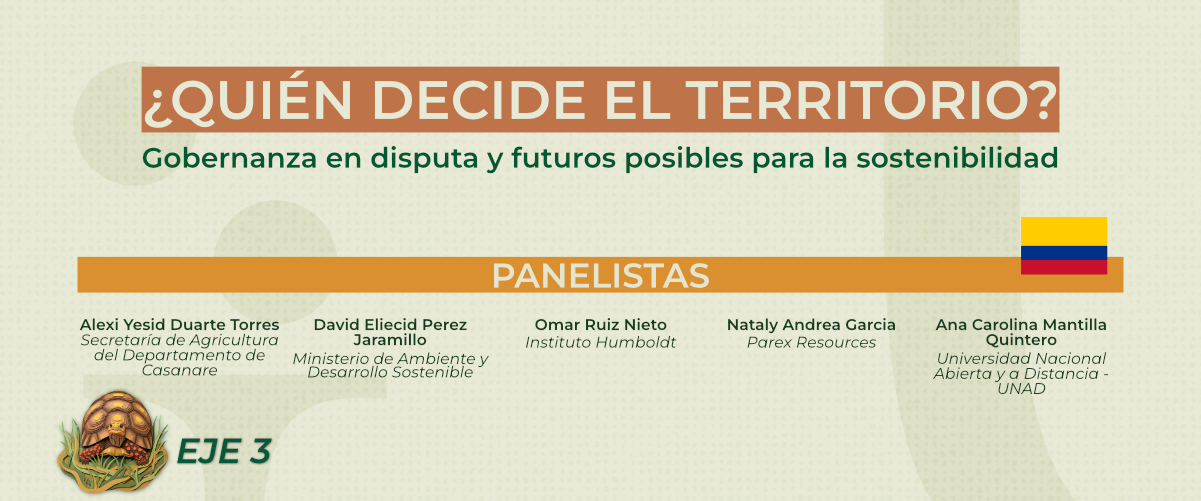
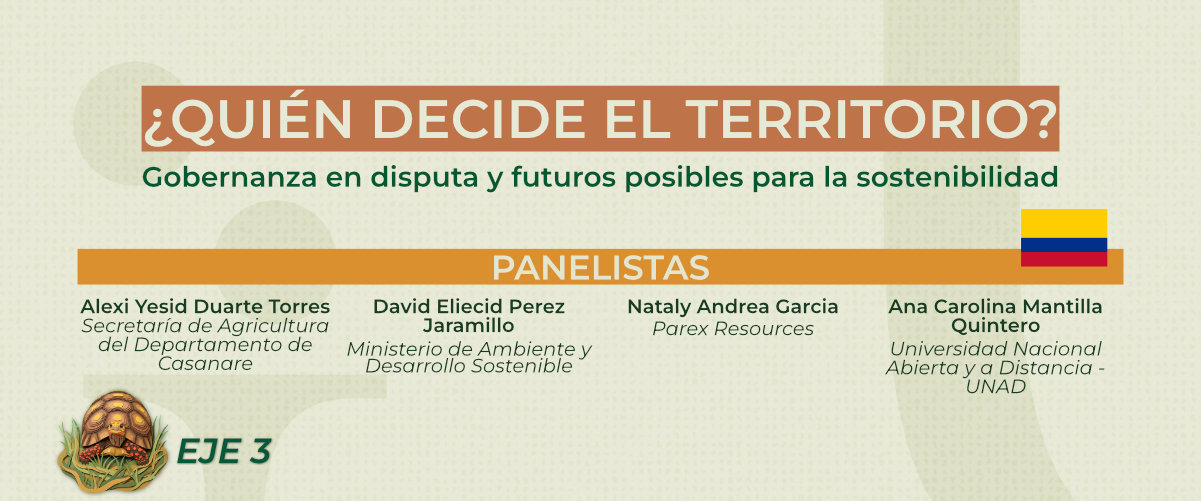
aCTUALIZACION

Changed region(s): [[0.0924, 0.1198, 0.8934, 0.3892], [0.0616, 0.4192, 0.955, 0.8084]]

diff --git a/index.html b/index.html
@@ -717,7 +717,7 @@
 
     <header class="hero-header">
         <h1>VIII Congreso Internacional de Ciencias Agrarias y Ambientales</h1>
-        <p>CICAA 2026 - Agenda Académica Oficial</p>
+        <p>CICAA 2026 - Agenda Académica</p>
     </header>
 
     <!-- ============================================================
@@ -826,7 +826,7 @@
 
         <div id="posteres" class="tab-content">
             <div class="posters-header">
-                <h2><i class="fa-solid fa-images"></i> Listado Oficial de Pósteres</h2>
+                <h2><i class="fa-solid fa-images"></i> Listado de Pósteres</h2>
                 <p>Conozca los trabajos de investigación exhibidos durante los espacios de break.</p>
             </div>
 
@@ -860,7 +860,6 @@
 
 const AGENDA_DATA = {
     "portada": {
-        // RUTA AJUSTADA AQUÍ
         "imagen": "portada.jpg"
     },
     "salas": {
@@ -898,7 +897,6 @@ const AGENDA_DATA = {
             "tipo": "plenaria",
             "style": "background: var(--dark-green)",
             "nombres": [],
-            // RUTA AJUSTADA AQUÍ
             "imagen": "plenaria-dia1.jpg"
         },
         {
@@ -907,7 +905,6 @@ const AGENDA_DATA = {
             "tipo": "panel",
             "style": "background: var(--light-green)",
             "nombres": [],
-            // RUTA AJUSTADA AQUÍ
             "imagen": "panel-1.jpg"
         },
         {
@@ -929,7 +926,7 @@ const AGENDA_DATA = {
         {
             "tipo": "normal",
             "hora": "08:10 - 08:30",
-            "sala1": "Radiación fotosintéticamente activa, carbohidratos solubles y composición bromatológica del maíz (Zea mays L) como indicadores del momento óptimo de cosecha para ensilaje en sistemas bovinos tropicales",
+            "sala1": "Radiación fotosintéticamente activa, carbohidratos solubles y composición bromatológica del maíz (Zea mays L.) como indicadores del momento óptimo de cosecha para ensilaje en sistemas bovinos tropicales",
             "sala2": "De residuo a catalizadores sostenibles: sílice derivada de cascarilla de arroz para el tratamiento de efluentes",
             "sala3": "UNAD-GLE: formación de competencias globales para la sostenibilidad socioambiental mediante aprendizaje colaborativo internacional"
         },
@@ -958,7 +955,7 @@ const AGENDA_DATA = {
             "tipo": "normal",
             "hora": "09:30 - 09:50",
             "sala1": "Eficiencia preliminar de un protocolo de IATF en hembras bovinas de Montes de María",
-            "sala2": "Evaluación multitemporal del crecimiento y la sanidad de arándano mediante variables fenotípicas e índices espectrales",
+            "sala2": "Sustentabilidad de los sistemas productivos de gulupa en Lengupá y Márquez, Boyacá",
             "sala3": "Planificación agroforestal participativa: una ruta hacia fincas familiares sostenibles"
         },
         {
@@ -976,7 +973,6 @@ const AGENDA_DATA = {
             "hora": "10:30 - 11:30",
             "texto": "Plenaria",
             "icono": "fa-solid fa-users",
-            // RUTA AJUSTADA AQUÍ
             "imagen": "plenaria-dia2.jpg",
             "nombres": [],
             "style": "",
@@ -987,8 +983,7 @@ const AGENDA_DATA = {
             "hora": "11:30 - 12:30",
             "texto": "VIEM - Panel",
             "icono": "fa-solid fa-chalkboard-user",
-            // RUTA AJUSTADA AQUÍ
-            "imagen": "viem-paneljpg",
+            "imagen": "viem-panel.jpg",
             "nombres": [],
             "style": "",
             "onclick": ""
@@ -1008,7 +1003,6 @@ const AGENDA_DATA = {
             "hora": "14:00 - 15:00",
             "texto": "Panel 2",
             "icono": "fa-solid fa-people-group",
-            // RUTA AJUSTADA AQUÍ
             "imagen": "panel-2.jpg",
             "nombres": [],
             "style": "",
@@ -1065,7 +1059,7 @@ const AGENDA_DATA = {
             "tipo": "normal",
             "hora": "08:30 - 08:50",
             "sala1": "Nutrición de precisión con nanofertilizantes en arándano (Vaccinium corymbosum L.) y su impacto en rendimiento y calidad del fruto",
-            "sala2": "Microorganismos asociados a la pudrición vascular de la papayuela (Vasconcellea pubescens), en Boyacá, Colombia",
+            "sala2": "Microorganismos asociados a la pudrición vascular de la papayuela (Vasconcellea pubescens) en Boyacá, Colombia",
             "sala3": "Análisis de la dinámica y cambio de la cobertura forestal en la parcela UNAD ubicada en la Reserva Natural de la Sociedad Civil Diamante de las Aguas"
         },
         {
@@ -1104,7 +1098,6 @@ const AGENDA_DATA = {
             "hora": "10:30 - 11:20",
             "texto": "Plenaria",
             "icono": "fa-solid fa-users",
-            // RUTA AJUSTADA AQUÍ
             "imagen": "plenaria-dia3.jpg",
             "nombres": [],
             "style": "",
@@ -1115,7 +1108,6 @@ const AGENDA_DATA = {
             "hora": "11:20 - 12:20",
             "texto": "VIEM – Salón de la innovación",
             "icono": "fa-regular fa-lightbulb",
-            // RUTA AJUSTADA AQUÍ
             "imagen": "viem-innovacion.jpg",
             "nombres": [],
             "style": "",
@@ -1136,12 +1128,12 @@ const AGENDA_DATA = {
             "hora": "14:00 - 14:20",
             "sala1": "Pobreza y determinantes sociales de salud en tiempos de transición energética en campesinos del Magdalena",
             "sala2": "AgroIA Cormechoque: plataforma de inteligencia artificial para el diagnóstico, la simulación y la gestión del riesgo de compactación del suelo en la agricultura campesina",
-            "sala3": "Conocimientos de dinámica poblacional de moscas de la fruta (Anastrepha spp.) en el Meta, Colombia"
+            "sala3": ""
         },
         {
             "tipo": "normal",
             "hora": "14:20 - 14:40",
-            "sala1": "El Páramo habitado: criterios comunitarios y ordenamiento tradicional en el corredor Socha-Socotá",
+            "sala1": "El páramo habitado: criterios comunitarios y ordenamiento tradicional en el corredor Socha-Socotá",
             "sala2": "Análisis bibliométrico sobre tendencias y evolución de la sostenibilidad y economía circular en aguas cafeteras",
             "sala3": "Análisis temporal de transiciones fenológicas reproductivas en aguacate Hass bajo trópico"
         },
@@ -1164,7 +1156,6 @@ const AGENDA_DATA = {
             "hora": "15:20 - 16:20",
             "texto": "Panel 3",
             "icono": "fa-solid fa-people-group",
-            // RUTA AJUSTADA AQUÍ
             "imagen": "panel-3.jpg",
             "nombres": [],
             "style": "",
@@ -1197,7 +1188,7 @@ const AGENDA_DATA = {
             "tipo": "poster",
             "codigo": "E2-01",
             "eje": "E2",
-            "titulo": "Red de Bioeconomía Comunitaria para la adaptación al cambio climático, la seguridad alimentaria y la economía circular en zonas áridas de La Guajira, mediante la producción sostenible de hongos y el aprovechamiento de residuos agroindustriales"
+            "titulo": "Red de bioeconomía comunitaria para la adaptación al cambio climático, la seguridad alimentaria y la economía circular en zonas áridas de La Guajira, mediante la producción sostenible de hongos y el aprovechamiento de residuos agroindustriales"
         },
         {
             "tipo": "poster",
@@ -1476,6 +1467,12 @@ const AGENDA_DATA = {
             "titulo": "Vivero agroforestal integrado con trazabilidad fitosanitaria y monitoreo LoRaWAN como estrategia de adaptación climática para la producción de semilla de plátano de calidad Dominico-Hartón y prevención sanitaria en sistemas agroforestales"
         },
         {
+            "tipo": "poster",
+            "codigo": "",
+            "eje": "",
+            "titulo": ""
+        },
+        {
             "tipo": "dia",
             "id": "anchor-dia2",
             "titulo": "Exhibición Día 2 (Agosto 27)"
@@ -1580,7 +1577,7 @@ const AGENDA_DATA = {
             "tipo": "poster",
             "codigo": "E1-28",
             "eje": "E1",
-            "titulo": "Diseño de un sistema productivo sostenible, basado en procesos agroforestales, con ordenamiento de predios y rotación de cultivos “Finca Llano de Mata”, municipio de Belén, Boyacá"
+            "titulo": "Diseño de un sistema productivo sostenible, basado en procesos agroforestales, con ordenamiento de predios y rotación de cultivos en la finca Llano de Mata, municipio de Belén, Boyacá"
         },
         {
             "tipo": "poster",
@@ -1694,7 +1691,7 @@ const AGENDA_DATA = {
             "tipo": "poster",
             "codigo": "E1-41",
             "eje": "E1",
-            "titulo": "Conservación participativa urbana - laboratorio vivo y banco de germoplasma in situ: resultados preliminares"
+            "titulo": "Conservación participativa urbana: laboratorio vivo y banco de germoplasma in situ, resultados preliminares"
         },
         {
             "tipo": "poster",
@@ -1754,13 +1751,37 @@ const AGENDA_DATA = {
             "tipo": "poster",
             "codigo": "E3-27",
             "eje": "E3",
-            "titulo": "Evaluación del cambio físico de la subcuenca del río Fucha - Bogotá"
+            "titulo": "Evaluación del cambio físico de la subcuenca del río Fucha, Bogotá"
         },
         {
             "tipo": "poster",
             "codigo": "E1-45",
             "eje": "E1",
             "titulo": "Efecto de bioestimulante orgánico-mineral con Bacillus subtilis sobre la floración y el cuajado de aguacate Hass (Persea americana Mill.) en Támesis, Antioquia, Colombia"
+        },
+        {
+            "tipo": "poster",
+            "codigo": "E1-46",
+            "eje": "E1",
+            "titulo": "Modelos de crecimiento y acumulación de biomasa en papa Diacol Capiro bajo invernadero y campo"
+        },
+        {
+            "tipo": "poster",
+            "codigo": "E2-24",
+            "eje": "E2",
+            "titulo": "Alianzas público-privadas sociales de empresas y negocios bioeconómicos en los departamentos de Antioquia y del Meta"
+        },
+        {
+            "tipo": "poster",
+            "codigo": "E3-28",
+            "eje": "E3",
+            "titulo": "Bonos de carbono y sostenibilidad cafetera en sistemas agroforestales de Quinchía"
+        },
+        {
+            "tipo": "poster",
+            "codigo": "E3-29",
+            "eje": "E3",
+            "titulo": "Relación humano-animal y riesgo zoonótico en territorios urbanos: una aproximación One Health en Villavicencio, Meta"
         }
     ]
 };
